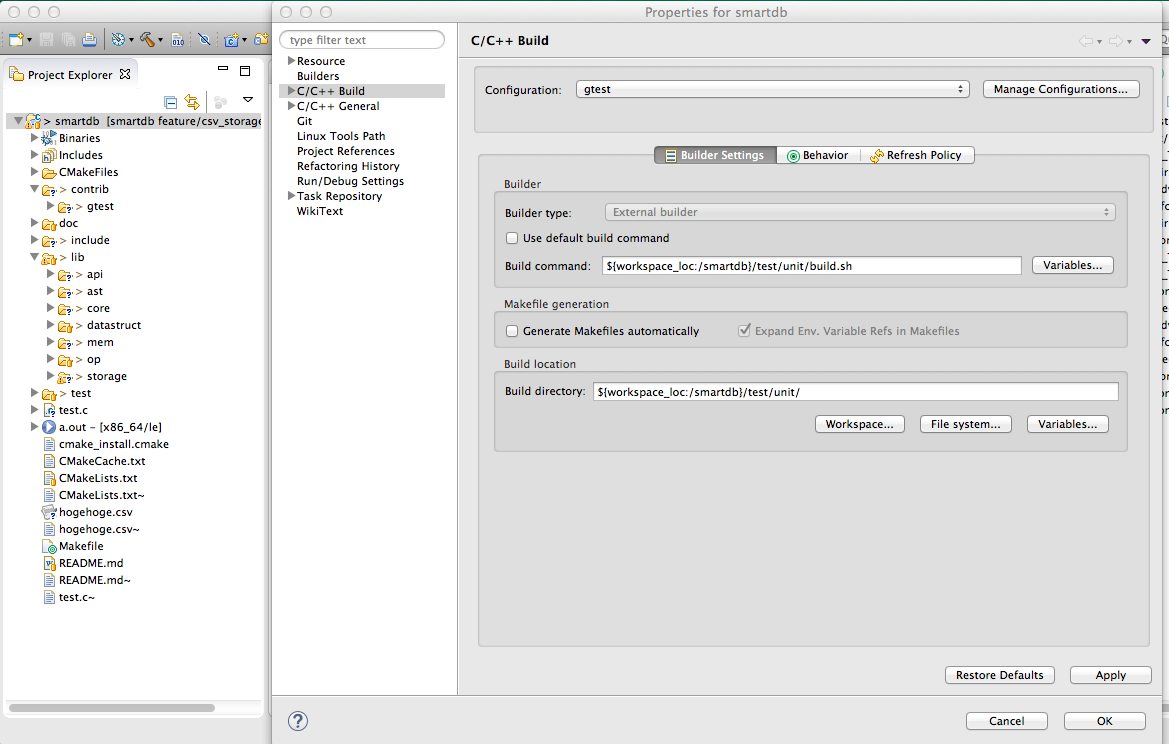
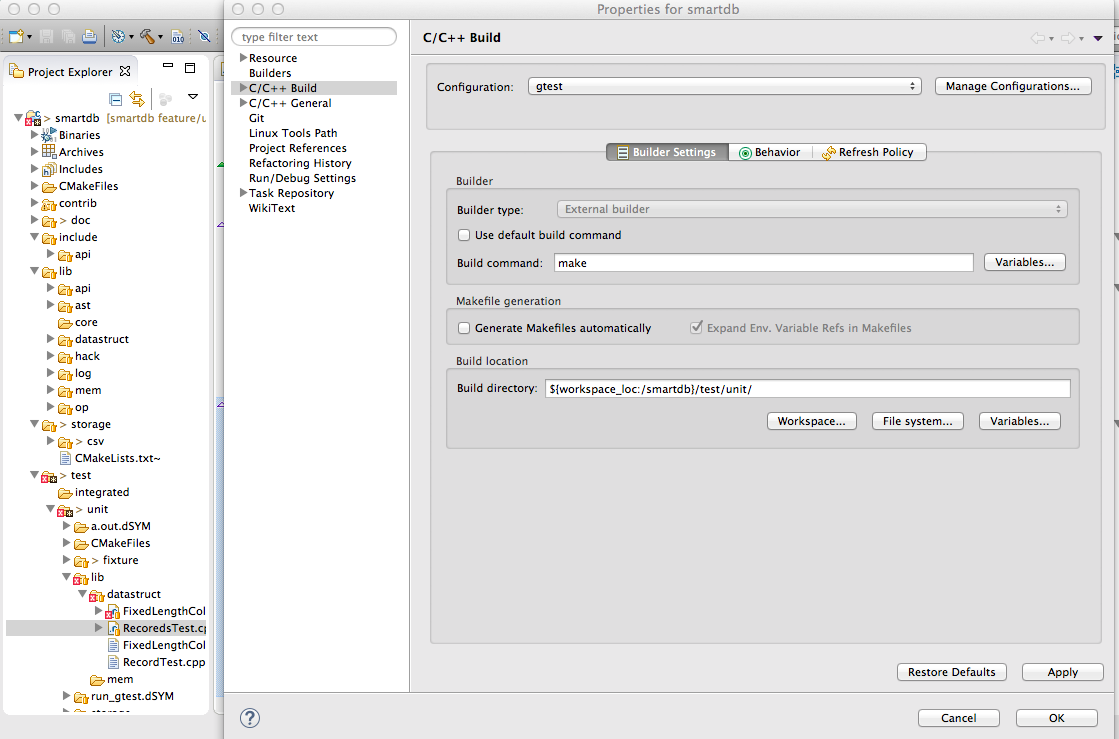
replaces unit test build script to cmake

Changed region(s): [[0.0, 0.0, 1.0, 1.0], [0.5165, 0.1867, 0.8508, 0.2179], [0.6685, 0.5602, 0.9419, 0.5913]]

diff --git a/README.md b/README.md
@@ -34,14 +34,16 @@ $ ./run_gtest
     1. Project -> Properties -> C/C++ Build -> Manage Configurations ...
     2. Create a configuration named "gtest".
     3. Return to "C/C++ Build" dialogue.
-    4. Build command: `${workspace_loc:/smartdb}/test/unit/build.sh`, build directory: `${workspace_loc:/smartdb}/test/unit/`.
+    4. Build command: `make`, build directory: `${workspace_loc:/smartdb}/test/unit/`.
 
     ![Make build configuration to create `test/unit/run_gtest` binary](doc/img/eclipse/gtest_build_config.png)
 3. Create configuration to build & run `test/unit/run_gtest` binary.
-    1. Run -> Run Configurations -> C/C++ Unit.
-    2. C/C++ Application: `${workspace_loc:/smartdb}/test/unit/run_test`.
-    3. Build configuration: "gtest".
-    4. Apply.
+    1. **NOTE.** Execute `cmake . ; make` first in your shell. Eclipse requires `run_gtest` binary to exist.
+    2. Run -> Run Configurations -> C/C++ Unit.
+    3. C/C++ Application: `${workspace_loc:/smartdb}/test/unit/run_test`.
+    4. Build configuration: "gtest".
+    5. Argumnts tab => Working directory: `${workspace_loc:/smartdb}/test/unit`
+    6. Apply.
 
     ![Create configuration to build & run `test/unit/run_gtest` binary](doc/img/eclipse/gtest_run_config.png)
 4. Run unit test.
